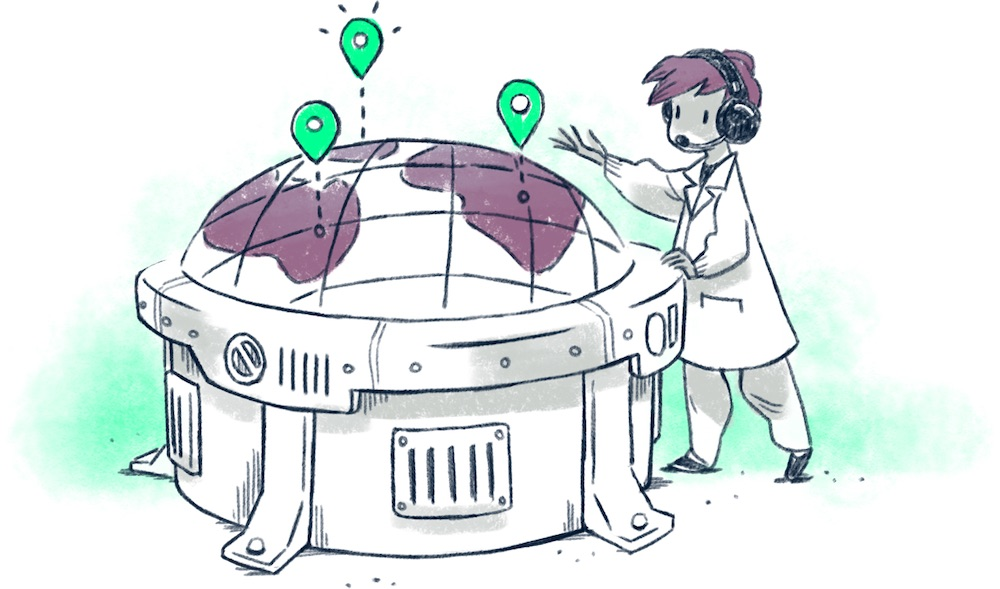
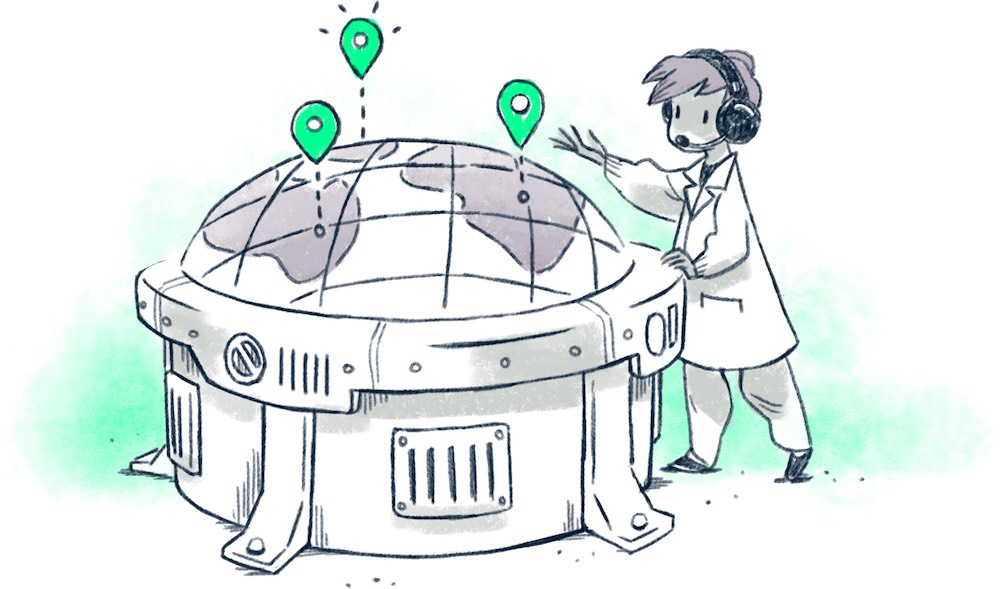
Add in shop and updated HQ image

Changed region(s): [[0.31, 0.2445, 0.589, 0.4584], [0.186, 0.275, 0.372, 0.489], [0.651, 0.0917, 0.775, 0.1834]]

diff --git a/pages/about/index.js b/pages/about/index.js
@@ -12,6 +12,7 @@ import { team, leadership, advisors } from './people'
 
 const headOfficeImage = require('../../assets/images/about/head-office.jpg')
 const brandAssetsImage = require('../../assets/images/about/brand-assets.jpg')
+const shopImage = require('../../assets/images/about/shop.jpg')
 
 const OffscreenH2 = styled.h2`
   ${theme.offscreen}
@@ -172,7 +173,7 @@ export default () => (
       />
       <ActionGridItem
         heading="Buildkite Shop"
-        image={brandAssetsImage}
+        image={shopImage}
         imageAlt=""
         description="Order yourself some official Buildkite stickers, t-shirts, and more."
         url="https://shop.buildkite.com/"
@@ -182,7 +183,7 @@ export default () => (
 
     <Callout
       heading="Have a question?"
-      description="Drop us a line if you have any questions. We're here to help."
+      description="Drop us a line, we’re here to help."
       url="mailto:support@buildkite.com"
       buttonTitle="support@buildkite.com"
     />
